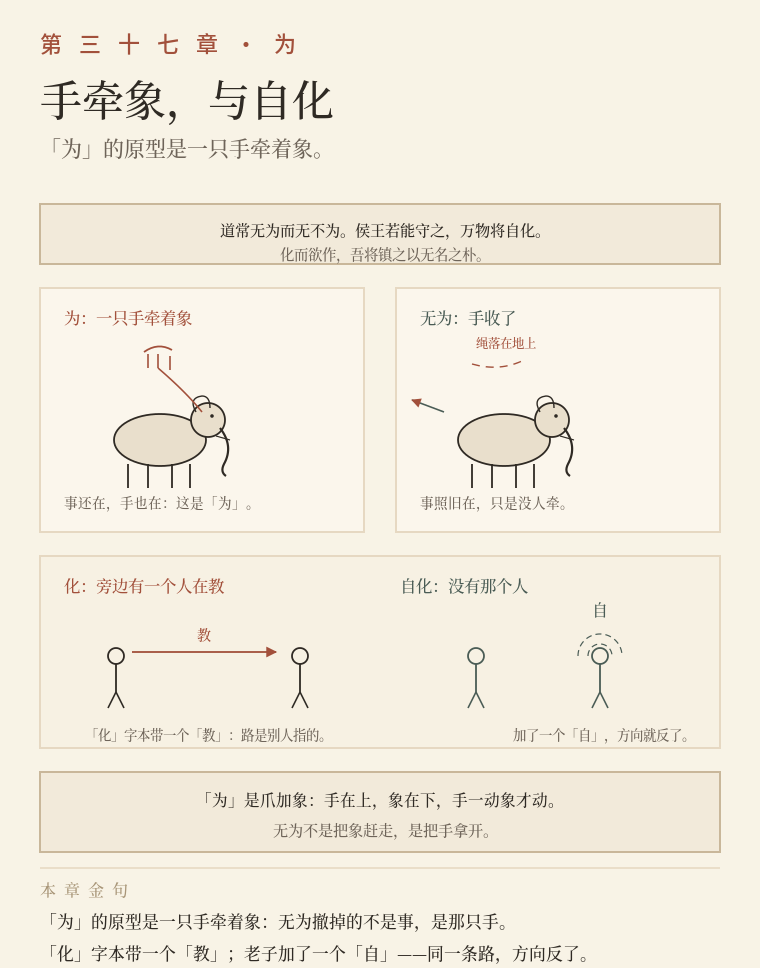
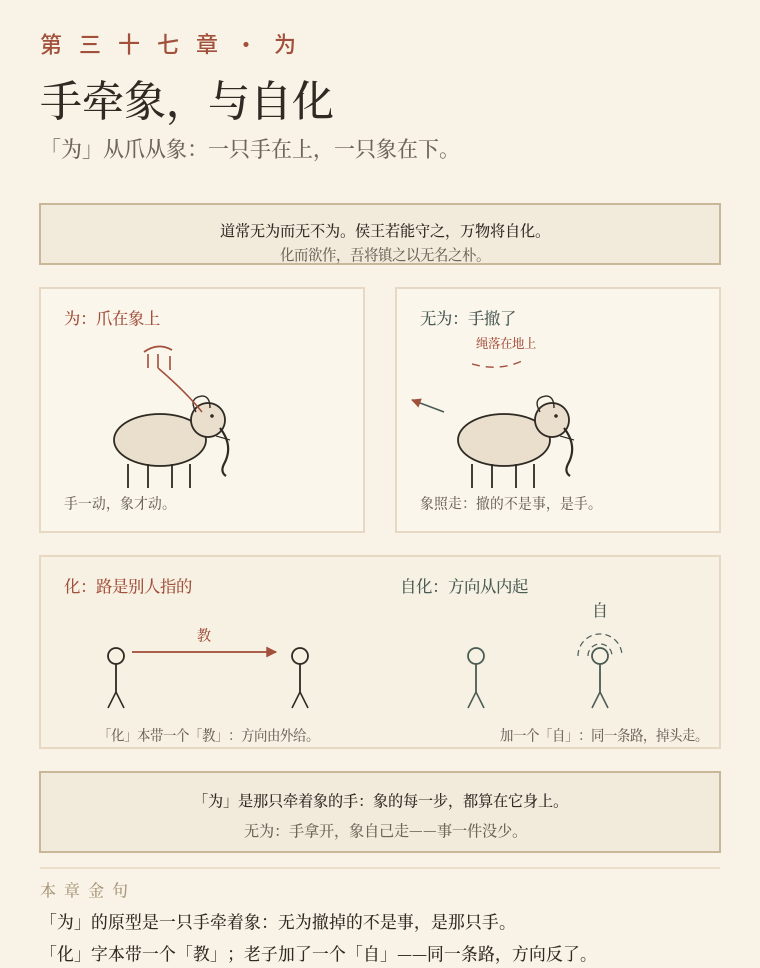
2.8.3 三十七章两图文字重写：去重复、落到字义与动作

diff --git a/tools/make_yili_svg.py b/tools/make_yili_svg.py
@@ -2679,7 +2679,7 @@ def ch36b_wei_ming_yuan():
 def ch37a_wei_shou_xiang():
     W, H = 380, 484
     body, y = head(W, H, "无为撤掉的不是事，是那只手", "第 三 十 七 章 · 为",
-                   "手牵象，与自化", "「为」的原型是一只手牵着象。", H)
+                   "手牵象，与自化", "「为」从爪从象：一只手在上，一只象在下。", H)
     s = [body]
 
     s.append(box(20, y + 2, 340, 30, fill="#F2EADA", stroke="#C9B79A"))
@@ -2689,8 +2689,8 @@ def ch37a_wei_shou_xiang():
     a = y + 44
     s.append(box(20, a, 162, 122, fill="#FBF6EC", stroke="#E6D8C2"))
     s.append(box(198, a, 162, 122, fill="#FBF6EC", stroke="#E6D8C2"))
-    s.append(txt(32, a + 18, "为：一只手牵着象", 8.2, SEAL))
-    s.append(txt(210, a + 18, "无为：手收了", 8.2, GREEN))
+    s.append(txt(32, a + 18, "为：爪在象上", 8.2, SEAL))
+    s.append(txt(210, a + 18, "无为：手撤了", 8.2, GREEN))
 
     # 象（左）
     s.append(f'<ellipse cx="80" cy="{a+76}" rx="23" ry="13" fill="#E9DFCC" stroke="{INK}" stroke-width="0.9"/>')
@@ -2705,7 +2705,7 @@ def ch37a_wei_shou_xiang():
     s.append(f'<path d="M72,{a+32} q7,-5 14,-1" fill="none" stroke="{SEAL}" stroke-width="0.9"/>')
     s.append(f'<path d="M74,{a+33} l0,7 M79,{a+33} l0,7 M85,{a+34} l0,7" stroke="{SEAL}" stroke-width="0.8"/>')
     s.append(f'<path d="M79,{a+40} q14,12 22,22" fill="none" stroke="{SEAL}" stroke-width="0.8"/>')
-    s.append(txt(32, a + 110, "事还在，手也在：这是「为」。", 6.8, "#6E6459"))
+    s.append(txt(32, a + 110, "手一动，象才动。", 6.9, "#6E6459"))
     # 象（右，无人牵）
     s.append(f'<ellipse cx="252" cy="{a+76}" rx="23" ry="13" fill="#E9DFCC" stroke="{INK}" stroke-width="0.9"/>')
     s.append(f'<circle cx="276" cy="{a+66}" r="8.5" fill="#E9DFCC" stroke="{INK}" stroke-width="0.9"/>')
@@ -2718,29 +2718,29 @@ def ch37a_wei_shou_xiang():
     s.append(f'<path d="M236,{a+38} q14,4 26,-2" fill="none" stroke="{SEAL}" stroke-width="0.7" stroke-dasharray="4 3"/>')
     s.append(txt(238, a + 30, "绳落在地上", 6.2, SEAL))
     s.append(arrow(222, a + 62, 206, a + 56, GREEN, 0.8, head="arrS"))
-    s.append(txt(210, a + 110, "事照旧在，只是没人牵。", 6.8, "#6E6459"))
+    s.append(txt(210, a + 110, "象照走：撤的不是事，是手。", 6.9, "#6E6459"))
 
     # 化 / 自化
     b = a + 134
     s.append(box(20, b, 340, 96, fill="#F7F1E3", stroke="#E6D8C2"))
-    s.append(txt(32, b + 18, "化：旁边有一个人在教", 8.2, SEAL))
-    s.append(txt(200, b + 18, "自化：没有那个人", 8.2, GREEN))
+    s.append(txt(32, b + 18, "化：路是别人指的", 8.2, SEAL))
+    s.append(txt(200, b + 18, "自化：方向从内起", 8.2, GREEN))
     for cx, col in ((58, INK), (150, INK), (238, GREEN), (300, GREEN)):
         s.append(f'<circle cx="{cx}" cy="{b+50}" r="4" fill="none" stroke="{col}" stroke-width="0.9"/>')
         s.append(f'<line x1="{cx}" y1="{b+54}" x2="{cx}" y2="{b+68}" stroke="{col}" stroke-width="0.9"/>')
         s.append(f'<path d="M{cx},{b+68} l-4,8 M{cx},{b+68} l4,8" stroke="{col}" stroke-width="0.8"/>')
     s.append(arrow(66, b + 48, 138, b + 48, SEAL, 0.9, head="arrS"))
     s.append(txt(102, b + 42, "教", 7.0, SEAL, "middle"))
-    s.append(txt(104, b + 92, "「化」字本带一个「教」：路是别人指的。", 6.7, "#6E6459", "middle"))
+    s.append(txt(104, b + 92, "「化」本带一个「教」：方向由外给。", 6.7, "#6E6459", "middle"))
     for r in (6, 11):
         s.append(f'<path d="M{300-r},{b+50} a{r},{r} 0 0 1 {2*r},0" fill="none" stroke="{GREEN}" stroke-width="0.6" stroke-dasharray="3 2"/>')
     s.append(txt(300, b + 30, "自", 8.0, GREEN, "middle"))
-    s.append(txt(300, b + 92, "加了一个「自」，方向就反了。", 6.7, "#6E6459", "middle"))
+    s.append(txt(300, b + 92, "加一个「自」：同一条路，掉头走。", 6.7, "#6E6459", "middle"))
 
     y3 = b + 108
     s.append(box(20, y3, 340, 40, fill="#F2EADA", stroke="#C9B79A"))
-    s.append(txt(190, y3 + 17, "「为」是爪加象：手在上，象在下，手一动象才动。", 7.8, INK, "middle"))
-    s.append(txt(190, y3 + 32, "无为不是把象赶走，是把手拿开。", 7.6, "#6E6459", "middle"))
+    s.append(txt(190, y3 + 17, "「为」是那只牵着象的手：象的每一步，都算在它身上。", 7.6, INK, "middle"))
+    s.append(txt(190, y3 + 32, "无为：手拿开，象自己走——事一件没少。", 7.6, "#6E6459", "middle"))
     s.append(gold(y3 + 48, "ch37a"))
     s.append('</svg>')
     return "\n".join(s)
@@ -2760,7 +2760,7 @@ def ch37b_pu_yu_jing():
     # 一、木压火 / 刀压人
     a = y + 44
     s.append(box(20, a, 340, 118, fill="#FBF6EC", stroke="#E6D8C2"))
-    s.append(txt(32, a + 18, "镇：一块原木压住", 8.2, INK))
+    s.append(txt(32, a + 18, "镇：一块原木，不加一文", 8.2, INK))
     s.append(f'<rect x="44" y="{a+62}" width="70" height="16" rx="2" fill="#E9DFCC" stroke="{INK}" stroke-width="0.9"/>')
     s.append(f'<line x1="52" y1="{a+68}" x2="108" y2="{a+66}" stroke="#8A7C69" stroke-width="0.5"/>')
     s.append(f'<line x1="52" y1="{a+74}" x2="106" y2="{a+73}" stroke="#8A7C69" stroke-width="0.5"/>')
@@ -2771,21 +2771,21 @@ def ch37b_pu_yu_jing():
     s.append(f'<line x1="38" y1="{a+98}" x2="74" y2="{a+94}" stroke="{INK}" stroke-width="0.8"/>')
     s.append(f'<line x1="52" y1="{a+94}" x2="116" y2="{a+98}" stroke="{INK}" stroke-width="0.8"/>')
     s.append(txt(40, a + 58, "没上漆、没雕花、没名字", 6.4, "#6E6459"))
-    s.append(txt(126, a + 92, "火自己熄了", 6.8, GREEN))
+    s.append(txt(126, a + 92, "火不靠扑，靠断柴", 6.8, GREEN))
     # 刀压人
     s.append(f'<circle cx="214" cy="{a+78}" r="4.2" fill="none" stroke="{INK}" stroke-width="0.8"/>')
     s.append(f'<line x1="214" y1="{a+82}" x2="214" y2="{a+96}" stroke="{INK}" stroke-width="0.9"/>')
     s.append(f'<line x1="208" y1="{a+62}" x2="222" y2="{a+58}" stroke="{SEAL}" stroke-width="1.1"/>')
     s.append(f'<line x1="222" y1="{a+58}" x2="232" y2="{a+56}" stroke="{SEAL}" stroke-width="0.9"/>')
     s.append(arrow(214, a + 62, 214, a + 52, SEAL, 0.8, head="arrS"))
-    s.append(txt(232, a + 74, "刀压：人会反弹", 6.4, SEAL))
-    s.append(txt(32, a + 110, "那股往外攀的劲，是被「多」喂大的；停它不加东西，只把柴挪开。", 6.8, "#6E6459"))
+    s.append(txt(232, a + 74, "刀压：越压越弹", 6.4, SEAL))
+    s.append(txt(32, a + 110, "「镇」不是压服，是压住那股要起的劲。", 6.9, "#6E6459"))
 
     # 二、静与驰
     b = a + 130
     s.append(box(20, b, 340, 110, fill="#F7F1E3", stroke="#E6D8C2"))
-    s.append(txt(32, b + 18, "静：劲不必往外扯", 8.2, GREEN))
-    s.append(txt(200, b + 18, "驰：人没动，心跑了", 8.2, SEAL))
+    s.append(txt(32, b + 18, "静：心不往外扯", 8.2, GREEN))
+    s.append(txt(200, b + 18, "驰：人坐着，心在跑", 8.2, SEAL))
     s.append(f'<line x1="40" y1="{b+72}" x2="150" y2="{b+72}" stroke="{LINE}" stroke-width="0.9"/>')
     s.append(f'<circle cx="86" cy="{b+46}" r="4" fill="none" stroke="{INK}" stroke-width="0.9"/>')
     s.append(f'<line x1="86" y1="{b+50}" x2="86" y2="{b+66}" stroke="{INK}" stroke-width="0.9"/>')
@@ -2797,29 +2797,29 @@ def ch37b_pu_yu_jing():
     s.append(f'<path d="M236,{b+84} l-8,8 M236,{b+84} l14,8" stroke="{INK}" stroke-width="0.8"/>')
     s.append(f'<path d="M244,{b+58} q26,-20 52,-6" fill="none" stroke="{SEAL}" stroke-width="0.7" stroke-dasharray="4 3"/>')
     s.append(arrow(280, b + 46, 300, b + 54, SEAL, 0.7, head="arrS"))
-    s.append(txt(240, b + 102, "坐着，却躁", 6.6, SEAL, "middle"))
-    s.append(txt(200, b + 34, "静的对立面不是动，是驰。", 6.6, "#6E6459"))
+    s.append(txt(240, b + 102, "坐，也躁", 6.6, SEAL, "middle"))
+    s.append(txt(200, b + 34, "静的反面不是动，是驰。", 6.6, "#6E6459"))
 
     # 三、自正
     c = b + 122
     s.append(box(20, c, 340, 84, fill="#FBF6EC", stroke="#E6D8C2"))
-    s.append(txt(32, c + 18, "自正：脚走到该停的地方", 8.2, INK))
+    s.append(txt(32, c + 18, "自正：各归其位", 8.2, INK))
     s.append(f'<line x1="38" y1="{c+64}" x2="150" y2="{c+64}" stroke="{INK}" stroke-width="0.9"/>')
     s.append(f'<line x1="86" y1="{c+64}" x2="86" y2="{c+56}" stroke="{INK}" stroke-width="0.7"/>')
     s.append(f'<ellipse cx="74" cy="{c+56}" rx="9" ry="5" fill="#E9DFCC" stroke="{INK}" stroke-width="0.8"/>')
     s.append(f'<path d="M80,{c+52} l3,-4" stroke="{INK}" stroke-width="0.7"/>')
-    s.append(txt(104, c + 58, "止：脚落在这儿，就是正", 6.6, "#6E6459"))
-    s.append(txt(190, c + 18, "定：需要第二个人", 8.2, SEAL))
+    s.append(txt(104, c + 58, "止：脚走到该停的地方", 6.5, "#6E6459"))
+    s.append(txt(190, c + 18, "定：要一个人去平", 8.2, SEAL))
     s.append(f'<line x1="188" y1="{c+64}" x2="300" y2="{c+64}" stroke="{INK}" stroke-width="0.6"/>')
     s.append(f'<ellipse cx="228" cy="{c+56}" rx="9" ry="5" fill="#E9DFCC" stroke="{INK}" stroke-width="0.8"/>')
     s.append(f'<path d="M214,{c+46} q14,-8 28,0" fill="none" stroke="{SEAL}" stroke-width="0.9"/>')
-    s.append(txt(252, c + 58, "有人按着才叫定", 6.4, SEAL))
-    s.append(txt(32, c + 78, "「定」是被平定的；「正」是各归其位——自正里没有第二个人的位置。", 6.6, "#6E6459"))
+    s.append(txt(252, c + 58, "有人按着，才叫定", 6.4, SEAL))
+    s.append(txt(32, c + 78, "「正」从止：不是被纠正，是自己走到该停的那一点。", 6.6, "#6E6459"))
 
     y3 = c + 96
     s.append(box(20, y3, 340, 40, fill="#F2EADA", stroke="#C9B79A"))
     s.append(txt(190, y3 + 17, "压住火的不是更多的柴，是把它从柴上挪开。", 7.8, INK, "middle"))
-    s.append(txt(190, y3 + 32, "那块木头什么都不加，所以它压得住。", 7.6, "#6E6459", "middle"))
+    s.append(txt(190, y3 + 32, "木头什么都没加，所以压得住。", 7.6, "#6E6459", "middle"))
     s.append(gold(y3 + 48, "ch37b"))
     s.append('</svg>')
     return "\n".join(s)
